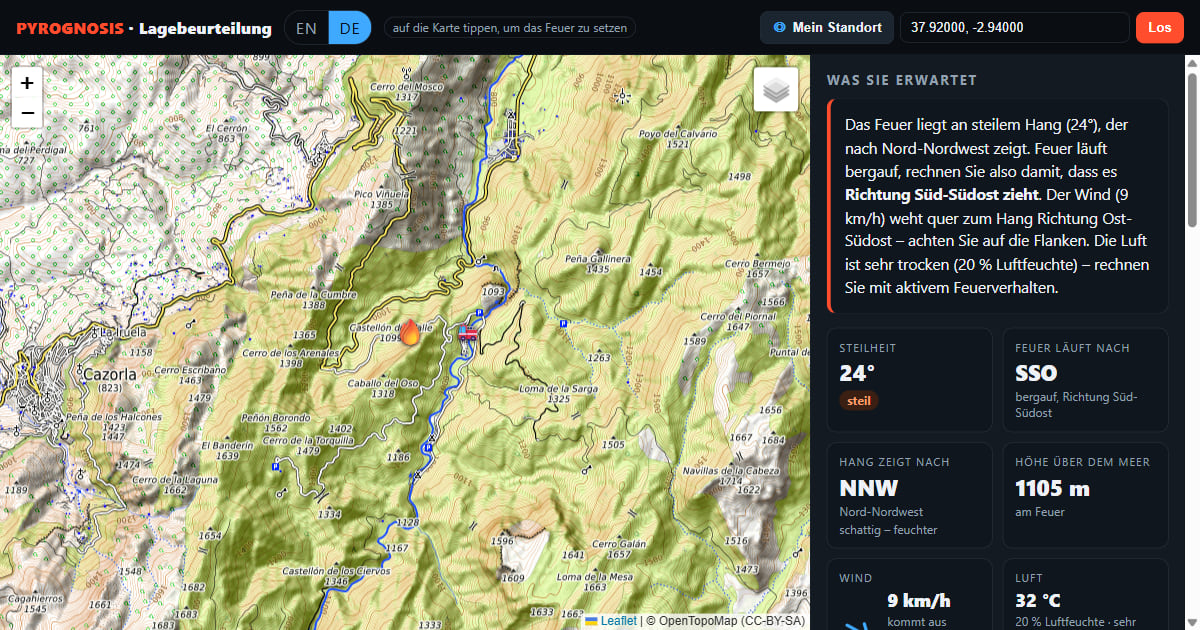
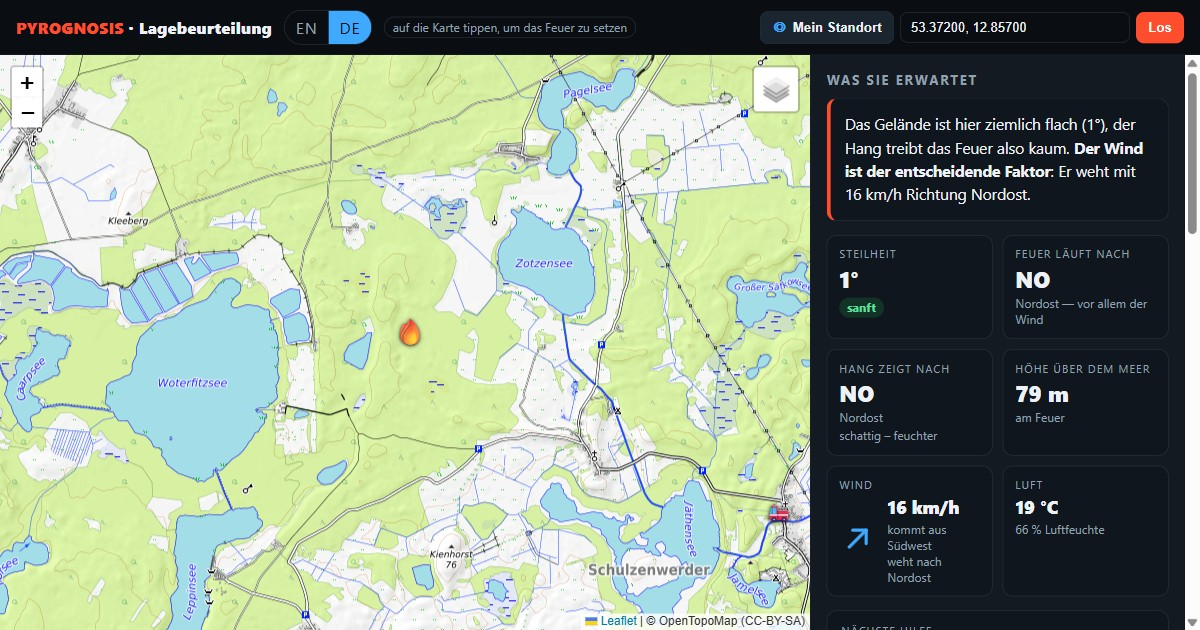
Size-Up: the German build gets German defaults, and the station query stops truncating
The German page opened on the Sierra de Cazorla and told its reader, in German,
to tap somewhere in Spain. Everything under the hood already worked in Germany:
Copernicus GLO-90 covers it, Open-Meteo answers for it, and fifteen Berlin and
Brandenburg stations were already baked in for exactly this case. Only the
defaults were never moved.

START is now per language. The German pin opens inside the Müritz-Nationalpark
near Zartwitz, which is the fire the German article describes. The English pin
is unchanged at Cazorla, and the English page is byte-identical apart from the
shared changes below.

German strings that named Spain or Spanish coordinates: the call to action, the
coordinate placeholder, and the error example. The German OG alt text and the
German preview screenshot are both remade at Müritz, so the link no longer
previews as a Spanish mountain before anyone clicks.

Six Mecklenburgische Seenplatte brigades join the baked fallback list.

The Overpass query said "out center 20", which returns an arbitrary twenty
inside the radius, not the nearest twenty, and the ranking then happened over
whatever came back. At the Müritz coordinate production reported the nearest
help as 18 km away. With the cap raised it is Qualzow and Blankenförde, both at
4.6 km. This is a correctness bug in the one number a crew would act on, and it
applied to every location, not only German ones.

Not fixed here, and still open: the aspect card prints "Hang zeigt nach NO,
[…]

diff --git a/public/sizeup-de.html b/public/sizeup-de.html
@@ -22,7 +22,7 @@
 <meta property="og:image" content="https://www.averiumdynamics.com/sizeup-preview-de.jpg"/>
 <meta property="og:image:width" content="1200"/>
 <meta property="og:image:height" content="630"/>
-<meta property="og:image:alt" content="Die Lagebeurteilung zeigt einen Hang bei Cazorla mit Steilheit, Wind und Laufrichtung des Feuers."/>
+<meta property="og:image:alt" content="Die Lagebeurteilung zeigt Wald im Müritz-Nationalpark mit Steilheit, Wind und Laufrichtung des Feuers."/>
 <meta property="og:locale" content="de_DE"/>
 <meta property="og:locale:alternate" content="en_GB"/>
 <meta name="twitter:card" content="summary_large_image"/>
@@ -170,7 +170,7 @@
     <span class="tag" data-i18n="tag">auf die Karte tippen, um das Feuer zu setzen</span>
     <div class="coords">
       <button id="locBtn" class="loc" type="button"><span class="pin">◎</span><span id="locTxt" data-i18n="myLocation">Mein Standort</span></button>
-      <input id="coordInput" data-i18n-ph="coordPh" placeholder="oder Koordinaten einfügen, z. B. 37.92, -2.94" inputmode="decimal" />
+      <input id="coordInput" data-i18n-ph="coordPh" placeholder="oder Koordinaten einfügen, z. B. 53.37, 12.86" inputmode="decimal" />
       <button id="goBtn" data-i18n="go">Los</button>
     </div>
   </header>
@@ -182,7 +182,7 @@
            move the pin, so it never nags anyone who has already worked it out. -->
       <div class="cta" id="cta">
         <span class="cta-hand">🚒</span>
-        <span class="cta-text" data-i18n="ctaText"><b>Sie werden gerade zu einem Waldbrand alarmiert.</b><br>Tippen Sie auf der Karte auf die Einsatzstelle — für diesen Test eine beliebige Stelle in Spanien.<br>Was darunter erscheint, erwartet Sie beim Eintreffen.<br>Sagen Sie uns anschließend unten, ob Ihnen das geholfen hätte.</span>
+        <span class="cta-text" data-i18n="ctaText"><b>Sie werden gerade zu einem Waldbrand alarmiert.</b><br>Tippen Sie auf der Karte auf die Einsatzstelle — für diesen Test eine beliebige Stelle in Deutschland.<br>Was darunter erscheint, erwartet Sie beim Eintreffen.<br>Sagen Sie uns anschließend unten, ob Ihnen das geholfen hätte.</span>
       </div>
       <h2 data-i18n="panelTitle">Was Sie erwartet</h2>
       <div id="err" class="err" style="display:none"></div>
@@ -265,7 +265,12 @@
 <script>
 (function(){
   "use strict";
-  const START=[37.92,-2.94]; // Sierra de Cazorla, Spain (validated region)
+  // The opening pin, per language. Both builds share this file, so one constant meant a
+  // German reader landed on a Spanish mountain and was then told to tap somewhere in Spain.
+  // Chosen after the German page shipped with the Spanish default; the coordinate below is
+  // inside the Müritz-Nationalpark, the fire the German article is about.
+  const START_EN=[37.92,-2.94];    // Sierra de Cazorla, Spain (the validated region)
+  const START_DE=[53.3720,12.8570]; // Müritz-Nationalpark, near Zartwitz
 
   // Spacing of the 3x3 terrain probe, in metres. Copernicus GLO-90 has ~92.6 m latitude
   // spacing, so a 90 m step makes neighbouring rows resolve to the SAME DEM cell — the
@@ -386,10 +391,10 @@
     de:{
       brandSuffix:'Lagebeurteilung',
       tag:'auf die Karte tippen, um das Feuer zu setzen',
-      coordPh:'oder Koordinaten einfügen, z. B. 37.92, -2.94',
+      coordPh:'oder Koordinaten einfügen, z. B. 53.37, 12.86',
       myLocation:'Mein Standort', locating:'Suche Standort…', go:'Los',
       ctaText:'<b>Sie werden gerade zu einem Waldbrand alarmiert.</b>'
-        +'<br>Tippen Sie auf der Karte auf die Einsatzstelle — für diesen Test eine beliebige Stelle in Spanien.'
+        +'<br>Tippen Sie auf der Karte auf die Einsatzstelle — für diesen Test eine beliebige Stelle in Deutschland.'
         +'<br>Was darunter erscheint, erwartet Sie beim Eintreffen.'
         +'<br>Sagen Sie uns anschließend unten, ob Ihnen das geholfen hätte.',
       panelTitle:'Was Sie erwartet',
@@ -437,7 +442,7 @@
       fbThanks:'Vielen Dank – das ist beim Team angekommen und fließt direkt in die Entwicklung ein.',
       fbEmpty:'Bitte zuerst eine Antwort wählen, etwas ankreuzen oder eine Zeile schreiben.',
       fbFail:'Das konnte nicht gesendet werden – bitte Verbindung prüfen und erneut versuchen.',
-      errCoord:'Position als „Breite, Länge“ eingeben – zum Beispiel 37.92, -2.94',
+      errCoord:'Position als „Breite, Länge“ eingeben – zum Beispiel 53.37, 12.86',
       errFetch:'Daten konnten nicht geladen werden – bitte Verbindung prüfen und die Markierung verschieben.',
       errNoGeo:'Dieses Gerät kann seinen Standort nicht teilen. Bitte auf die Karte tippen.',
       errGeoDenied:'Standortzugriff ist blockiert. Bitte im Browser erlauben oder einfach auf die Karte tippen.',
@@ -458,6 +463,8 @@
   let LANG = 'de'; // BUILD:LANG
 
   const t=k=>{ const v=STR[LANG][k]; return v!==undefined?v:STR.en[k]; };
+
+  const START = LANG==='de' ? START_DE : START_EN;
 
   const map=L.map('map',{zoomControl:true}).setView(START,13);
   const topo=L.tileLayer('https://{s}.tile.opentopomap.org/{z}/{x}/{y}.png',
@@ -649,7 +656,15 @@
     {lat:52.5265525,lon:13.3891997,name:'Freiwillige Feuerwehr Mitte'},
     {lat:52.6111032,lon:13.4830902,name:'Freiwillige Feuerwehr Karow'},
     {lat:52.0555718,lon:13.2301378,name:'Freiwillige Feuerwehr Jänickendorf'},
-    {lat:52.3588236,lon:13.5912062,name:'Freiwillige Feuerwehr Schulzendorf'}
+    {lat:52.3588236,lon:13.5912062,name:'Freiwillige Feuerwehr Schulzendorf'},
+    // Mecklenburgische Seenplatte — the Müritz-Nationalpark and its surroundings, which is
+    // where the German page now opens and the fire the German article describes.
+    {lat:53.4290774,lon:12.9450888,name:'Freiwillige Feuerwehr Kratzeburg'},
+    {lat:53.5136832,lon:12.8358024,name:'Freiwillige Feuerwehr Groß Dratow'},
+    {lat:53.4151765,lon:12.5913594,name:'Freiwillige Feuerwehr Gotthun'},
+    {lat:53.3527197,lon:12.5782164,name:'Freiwillige Feuerwehr Bollewick'},
+    {lat:53.5264786,lon:12.9964092,name:'Freiwillige Feuerwehr Marihn'},
+    {lat:53.2084350,lon:12.9983992,name:'Freiwillige Feuerwehr Strasen'}
   ];
 
   let lastStations=null, lastStationNote='', lastStationFailed=false;
@@ -697,7 +712,7 @@
     const q='[out:json][timeout:15];('+
       'node["amenity"="fire_station"](around:'+STATION_RADIUS_M+','+lat+','+lon+');'+
       'way["amenity"="fire_station"](around:'+STATION_RADIUS_M+','+lat+','+lon+');'+
-      ');out center 20;';
+      ');out center 200;';
     try{
       const ctl=new AbortController();
       const kill=setTimeout(()=>ctl.abort(),9000);

diff --git a/public/sizeup.html b/public/sizeup.html
@@ -265,7 +265,12 @@
 <script>
 (function(){
   "use strict";
-  const START=[37.92,-2.94]; // Sierra de Cazorla, Spain (validated region)
+  // The opening pin, per language. Both builds share this file, so one constant meant a
+  // German reader landed on a Spanish mountain and was then told to tap somewhere in Spain.
+  // Chosen after the German page shipped with the Spanish default; the coordinate below is
+  // inside the Müritz-Nationalpark, the fire the German article is about.
+  const START_EN=[37.92,-2.94];    // Sierra de Cazorla, Spain (the validated region)
+  const START_DE=[53.3720,12.8570]; // Müritz-Nationalpark, near Zartwitz
 
   // Spacing of the 3x3 terrain probe, in metres. Copernicus GLO-90 has ~92.6 m latitude
   // spacing, so a 90 m step makes neighbouring rows resolve to the SAME DEM cell — the
@@ -386,10 +391,10 @@
     de:{
       brandSuffix:'Lagebeurteilung',
       tag:'auf die Karte tippen, um das Feuer zu setzen',
-      coordPh:'oder Koordinaten einfügen, z. B. 37.92, -2.94',
+      coordPh:'oder Koordinaten einfügen, z. B. 53.37, 12.86',
       myLocation:'Mein Standort', locating:'Suche Standort…', go:'Los',
       ctaText:'<b>Sie werden gerade zu einem Waldbrand alarmiert.</b>'
-        +'<br>Tippen Sie auf der Karte auf die Einsatzstelle — für diesen Test eine beliebige Stelle in Spanien.'
+        +'<br>Tippen Sie auf der Karte auf die Einsatzstelle — für diesen Test eine beliebige Stelle in Deutschland.'
         +'<br>Was darunter erscheint, erwartet Sie beim Eintreffen.'
         +'<br>Sagen Sie uns anschließend unten, ob Ihnen das geholfen hätte.',
       panelTitle:'Was Sie erwartet',
@@ -437,7 +442,7 @@
       fbThanks:'Vielen Dank – das ist beim Team angekommen und fließt direkt in die Entwicklung ein.',
       fbEmpty:'Bitte zuerst eine Antwort wählen, etwas ankreuzen oder eine Zeile schreiben.',
       fbFail:'Das konnte nicht gesendet werden – bitte Verbindung prüfen und erneut versuchen.',
-      errCoord:'Position als „Breite, Länge“ eingeben – zum Beispiel 37.92, -2.94',
+      errCoord:'Position als „Breite, Länge“ eingeben – zum Beispiel 53.37, 12.86',
       errFetch:'Daten konnten nicht geladen werden – bitte Verbindung prüfen und die Markierung verschieben.',
       errNoGeo:'Dieses Gerät kann seinen Standort nicht teilen. Bitte auf die Karte tippen.',
       errGeoDenied:'Standortzugriff ist blockiert. Bitte im Browser erlauben oder einfach auf die Karte tippen.',
@@ -458,6 +463,8 @@
   let LANG = 'en'; // BUILD:LANG
 
   const t=k=>{ const v=STR[LANG][k]; return v!==undefined?v:STR.en[k]; };
+
+  const START = LANG==='de' ? START_DE : START_EN;
 
   const map=L.map('map',{zoomControl:true}).setView(START,13);
   const topo=L.tileLayer('https://{s}.tile.opentopomap.org/{z}/{x}/{y}.png',
@@ -649,7 +656,15 @@
     {lat:52.5265525,lon:13.3891997,name:'Freiwillige Feuerwehr Mitte'},
     {lat:52.6111032,lon:13.4830902,name:'Freiwillige Feuerwehr Karow'},
     {lat:52.0555718,lon:13.2301378,name:'Freiwillige Feuerwehr Jänickendorf'},
-    {lat:52.3588236,lon:13.5912062,name:'Freiwillige Feuerwehr Schulzendorf'}
+    {lat:52.3588236,lon:13.5912062,name:'Freiwillige Feuerwehr Schulzendorf'},
+    // Mecklenburgische Seenplatte — the Müritz-Nationalpark and its surroundings, which is
+    // where the German page now opens and the fire the German article describes.
+    {lat:53.4290774,lon:12.9450888,name:'Freiwillige Feuerwehr Kratzeburg'},
+    {lat:53.5136832,lon:12.8358024,name:'Freiwillige Feuerwehr Groß Dratow'},
+    {lat:53.4151765,lon:12.5913594,name:'Freiwillige Feuerwehr Gotthun'},
+    {lat:53.3527197,lon:12.5782164,name:'Freiwillige Feuerwehr Bollewick'},
+    {lat:53.5264786,lon:12.9964092,name:'Freiwillige Feuerwehr Marihn'},
+    {lat:53.2084350,lon:12.9983992,name:'Freiwillige Feuerwehr Strasen'}
   ];
 
   let lastStations=null, lastStationNote='', lastStationFailed=false;
@@ -697,7 +712,7 @@
     const q='[out:json][timeout:15];('+
       'node["amenity"="fire_station"](around:'+STATION_RADIUS_M+','+lat+','+lon+');'+
       'way["amenity"="fire_station"](around:'+STATION_RADIUS_M+','+lat+','+lon+');'+
-      ');out center 20;';
+      ');out center 200;';
     try{
       const ctl=new AbortController();
       const kill=setTimeout(()=>ctl.abort(),9000);

diff --git a/scripts/sizeup.src.html b/scripts/sizeup.src.html
@@ -263,7 +263,12 @@
 <script>
 (function(){
   "use strict";
-  const START=[37.92,-2.94]; // Sierra de Cazorla, Spain (validated region)
+  // The opening pin, per language. Both builds share this file, so one constant meant a
+  // German reader landed on a Spanish mountain and was then told to tap somewhere in Spain.
+  // Chosen after the German page shipped with the Spanish default; the coordinate below is
+  // inside the Müritz-Nationalpark, the fire the German article is about.
+  const START_EN=[37.92,-2.94];    // Sierra de Cazorla, Spain (the validated region)
+  const START_DE=[53.3720,12.8570]; // Müritz-Nationalpark, near Zartwitz
 
   // Spacing of the 3x3 terrain probe, in metres. Copernicus GLO-90 has ~92.6 m latitude
   // spacing, so a 90 m step makes neighbouring rows resolve to the SAME DEM cell — the
@@ -384,10 +389,10 @@
     de:{
       brandSuffix:'Lagebeurteilung',
       tag:'auf die Karte tippen, um das Feuer zu setzen',
-      coordPh:'oder Koordinaten einfügen, z. B. 37.92, -2.94',
+      coordPh:'oder Koordinaten einfügen, z. B. 53.37, 12.86',
       myLocation:'Mein Standort', locating:'Suche Standort…', go:'Los',
       ctaText:'<b>Sie werden gerade zu einem Waldbrand alarmiert.</b>'
-        +'<br>Tippen Sie auf der Karte auf die Einsatzstelle — für diesen Test eine beliebige Stelle in Spanien.'
+        +'<br>Tippen Sie auf der Karte auf die Einsatzstelle — für diesen Test eine beliebige Stelle in Deutschland.'
         +'<br>Was darunter erscheint, erwartet Sie beim Eintreffen.'
         +'<br>Sagen Sie uns anschließend unten, ob Ihnen das geholfen hätte.',
       panelTitle:'Was Sie erwartet',
@@ -435,7 +440,7 @@
       fbThanks:'Vielen Dank – das ist beim Team angekommen und fließt direkt in die Entwicklung ein.',
       fbEmpty:'Bitte zuerst eine Antwort wählen, etwas ankreuzen oder eine Zeile schreiben.',
       fbFail:'Das konnte nicht gesendet werden – bitte Verbindung prüfen und erneut versuchen.',
-      errCoord:'Position als „Breite, Länge“ eingeben – zum Beispiel 37.92, -2.94',
+      errCoord:'Position als „Breite, Länge“ eingeben – zum Beispiel 53.37, 12.86',
       errFetch:'Daten konnten nicht geladen werden – bitte Verbindung prüfen und die Markierung verschieben.',
       errNoGeo:'Dieses Gerät kann seinen Standort nicht teilen. Bitte auf die Karte tippen.',
       errGeoDenied:'Standortzugriff ist blockiert. Bitte im Browser erlauben oder einfach auf die Karte tippen.',
@@ -456,6 +461,8 @@
   let LANG = 'en'; // BUILD:LANG
 
   const t=k=>{ const v=STR[LANG][k]; return v!==undefined?v:STR.en[k]; };
+
+  const START = LANG==='de' ? START_DE : START_EN;
 
   const map=L.map('map',{zoomControl:true}).setView(START,13);
   const topo=L.tileLayer('https://{s}.tile.opentopomap.org/{z}/{x}/{y}.png',
@@ -647,7 +654,15 @@
     {lat:52.5265525,lon:13.3891997,name:'Freiwillige Feuerwehr Mitte'},
     {lat:52.6111032,lon:13.4830902,name:'Freiwillige Feuerwehr Karow'},
     {lat:52.0555718,lon:13.2301378,name:'Freiwillige Feuerwehr Jänickendorf'},
-    {lat:52.3588236,lon:13.5912062,name:'Freiwillige Feuerwehr Schulzendorf'}
+    {lat:52.3588236,lon:13.5912062,name:'Freiwillige Feuerwehr Schulzendorf'},
+    // Mecklenburgische Seenplatte — the Müritz-Nationalpark and its surroundings, which is
+    // where the German page now opens and the fire the German article describes.
+    {lat:53.4290774,lon:12.9450888,name:'Freiwillige Feuerwehr Kratzeburg'},
+    {lat:53.5136832,lon:12.8358024,name:'Freiwillige Feuerwehr Groß Dratow'},
+    {lat:53.4151765,lon:12.5913594,name:'Freiwillige Feuerwehr Gotthun'},
+    {lat:53.3527197,lon:12.5782164,name:'Freiwillige Feuerwehr Bollewick'},
+    {lat:53.5264786,lon:12.9964092,name:'Freiwillige Feuerwehr Marihn'},
+    {lat:53.2084350,lon:12.9983992,name:'Freiwillige Feuerwehr Strasen'}
   ];
 
   let lastStations=null, lastStationNote='', lastStationFailed=false;
@@ -695,7 +710,7 @@
     const q='[out:json][timeout:15];('+
       'node["amenity"="fire_station"](around:'+STATION_RADIUS_M+','+lat+','+lon+');'+
       'way["amenity"="fire_station"](around:'+STATION_RADIUS_M+','+lat+','+lon+');'+
-      ');out center 20;';
+      ');out center 200;';
     try{
       const ctl=new AbortController();
       const kill=setTimeout(()=>ctl.abort(),9000);

diff --git a/scripts/build-sizeup.js b/scripts/build-sizeup.js
@@ -52,7 +52,7 @@ const PAGES = {
       'Das Gelände kennen, bevor Sie eintreffen: Steilheit, Laufrichtung des Feuers, Wind ' +
       'und die nächstgelegenen Feuerwachen. Von Averium Dynamics.',
     imgAlt:
-      'Die Lagebeurteilung zeigt einen Hang bei Cazorla mit Steilheit, Wind und Laufrichtung des Feuers.',
+      'Die Lagebeurteilung zeigt Wald im Müritz-Nationalpark mit Steilheit, Wind und Laufrichtung des Feuers.',
   },
 };
 
